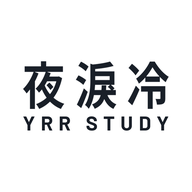
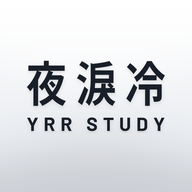
로고 간격 넓히기, 앱 아이콘 흰 유리 느낌
Claude-Session: https://claude.ai/code/session_015uaKLahaYjwSoCrRpGm8MR

diff --git a/index.html b/index.html
@@ -20,9 +20,9 @@
   window.__inapp = true;
 })();
 </script>
-<link rel="manifest" href="manifest.webmanifest">
-<link rel="apple-touch-icon" href="icons/apple-touch-icon.png">
-<link rel="icon" type="image/png" href="icons/favicon.png">
+<link rel="manifest" href="manifest.webmanifest?v=2">
+<link rel="apple-touch-icon" href="icons/apple-touch-icon.png?v=2">
+<link rel="icon" type="image/png" href="icons/favicon.png?v=2">
 <link rel="preconnect" href="https://cdn.jsdelivr.net">
 <link rel="stylesheet" href="https://cdn.jsdelivr.net/gh/orioncactus/pretendard@v1.3.9/dist/web/variable/pretendardvariable-dynamic-subset.min.css">
 <link rel="stylesheet" href="css/app.css">
